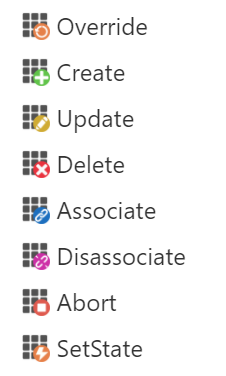
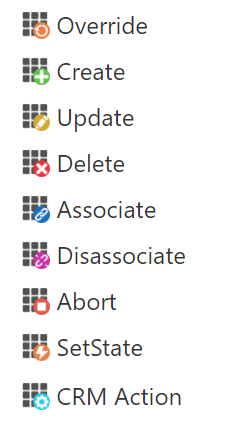
update docs

diff --git a/docs/index.html b/docs/index.html
@@ -217,6 +217,10 @@
                             <li>
                                 <a onclick="scrollToElem('#abort')">Abort Message</a>
                             </li>
+                            <li>
+                                <a onclick="scrollToElem('#crmaction')">CRM Action (Since version 2.0.0.2)</a>
+                            </li>
+    
                         </ul>
                     </li>
                     <li>
@@ -394,6 +398,8 @@
                         <span style="font-weight: bold">SetState :</span> The Plugin will change the state of a record </li>
                     <li>
                         <span style="font-weight: bold">Abort Message :</span> The Plugin will abort the current action by generating an error </li>
+                    <li>
+                        <span style="font-weight: bold">CRM Action :</span> The Plugin will execute a CRM Action </li>
                 </ul>
 
 
@@ -458,6 +464,8 @@
                         <span style="font-weight: bold">Disassociate :</span> The Plugin will disassociate 2 records </li>
                     <li>
                         <span style="font-weight: bold">SetState :</span> The Plugin will change the state of a record </li>
+                    <li>
+                        <span style="font-weight: bold">CRM Action :</span> The Plugin will execute a CRM Action </li>
                 </ul>
 
                 <hr>
@@ -644,6 +652,8 @@
                         <span style="font-weight: bold">SetState :</span> The Plugin will change the state of a record </li>
                     <li>
                         <span style="font-weight: bold">Abort Message :</span> The Plugin will abort the current action by generating an error </li>
+                    <li>
+                        <span style="font-weight: bold">CRM Action :</span> The Plugin will execute CRM Action</li>        
                 </ul>
 
                 <h2 id="override">Override Action
@@ -694,6 +704,11 @@
                         created by the current user
                     </li>
                 </ul>
+                <p>
+                    <span style="color: #c5000c; font-weight: bold">Since version 2.0.0.2</span> <br>
+                    Create Action automatically adds a return parameter (type : Guid) <br>
+                    If the creation concerns multiple lines, the corresponding parameter will have "Foreach" as aggregation function (like a request)
+                </p>
 
                 <h2 id="update">Update Action
                     <button onclick="scrollToElem('#container')" class="btn btn-transparent btn-sm btn-flat up" type="button">
@@ -868,6 +883,37 @@
 
 
 
+                <h2 id="crmaction">CRM Action
+                    <button onclick="scrollToElem('#container')" class="btn btn-transparent btn-sm btn-flat up" type="button">
+                        <img style="height: 26px; width: 26px" src="images/top.png">
+                    </button>
+
+                </h2>
+
+                <p>
+                    <span style="color: #c5000c; font-weight: bold">Since version 2.0.0.2</span> <br>
+                    CRM Action executes CRM Actions and adds a return parameter (if output defined) (type : Array) depending on defined output parameters <br>
+                </p>
+    
+
+                <p></p>
+                <p>
+                    <img src="images/crmaction.png" class="img" alt="" style="width: 700px;">
+                </p>
+
+                <ul>
+                    <li>
+                        <span style="font-weight: bold">Entity :</span> Entity associated action, "none" if global </li>
+                    <li>
+                        <span style="font-weight: bold">Action :</span> CRM Action to execute </li>
+                    <li>
+                        <span style="font-weight: bold">Attributes with Expression editor enabled:</span> Action input parameters </li>
+                    <li>
+                        <span style="font-weight: bold">Attributes without Expression editor:</span> Action output parameters </li>
+                </ul>
+    
+
+
                 <hr>
                 <h1 id="expressioneditor">Expression Editor
                     <button onclick="scrollToElem('#container')" class="btn btn-transparent btn-sm btn-flat up" type="button">
@@ -970,24 +1016,24 @@
                     <pre><code class="json">[  
     {  
         "ake_synchronous":true,
-        "ake_period":null,
-        "ake_order":3,
+        "ake_order":1,
+        "ake_entity":"account",
         "ake_postcreate":true,
         "ake_active":true,
-        "ake_actions":"[{\"asadmin\":false,\"resume\":\"Create of contact (Single record)\",\"resumeDefault\":\"Create of contact (Single record)\",\"entity\":\"contact\",\"attributes\":[{\"id\":\"a67701f5-ebd0-4412-8b70-c61a99595647\",\"logicalname\":\"firstname\",\"attributetype\":\"String\",\"name\":\"First Name\",\"validforcreate\":true,\"validforupdate\":true,\"type\":1,\"expression\":\"\\\" Contact associated\\\"\",\"$$hashKey\":\"360\"},{\"id\":\"2f8fdd79-0372-490d-9053-b743becfca0d\",\"logicalname\":\"lastname\",\"attributetype\":\"String\",\"name\":\"Last Name\",\"validforcreate\":true,\"validforupdate\":true,\"type\":1,\"expression\":\"#p1\",\"$$hashKey\":\"36A\"},{\"id\":\"c7a58b13-df19-491c-a918-1bc26eaf6eb3\",\"logicalname\":\"parentcustomerid\",\"attributetype\":\"Customer\",\"targets\":\"account;contact\",\"name\":\"Company Name\",\"validforcreate\":true,\"validforupdate\":true,\"type\":5,\"expression\":\"#Id\",\"$$hashKey\":\"36N\"}],\"relations\":[],\"type\":0,\"depth\":1,\"condition\":\"true\",\"foreachparam\":0,\"order\":1}]",
-        "ake_startdate":null,
+        "ake_actions":"[{\"asadmin\":false,\"resume\":\"Create of contact (Single record)\",\"resumeDefault\":\"Create of contact (Single record)\",\"entity\":\"contact\",\"attributes\":[{\"id\":\"a67701f5-ebd0-4412-8b70-c61a99595647\",\"logicalname\":\"firstname\",\"attributetype\":\"String\",\"name\":\"Prénom\",\"validforcreate\":true,\"validforupdate\":true,\"type\":1,\"expression\":\"\\\"contact associated\\\"\",\"$$hashKey\":\"3QN\"},{\"id\":\"2f8fdd79-0372-490d-9053-b743becfca0d\",\"logicalname\":\"lastname\",\"attributetype\":\"String\",\"name\":\"Nom de famille\",\"validforcreate\":true,\"validforupdate\":true,\"type\":1,\"expression\":\"#p1\",\"$$hashKey\":\"3QX\"},{\"id\":\"c7a58b13-df19-491c-a918-1bc26eaf6eb3\",\"logicalname\":\"parentcustomerid\",\"attributetype\":\"Customer\",\"targets\":\"account;contact\",\"name\":\"Nom de la société\",\"validforcreate\":true,\"validforupdate\":true,\"type\":5,\"expression\":\"#Id\",\"$$hashKey\":\"3RA\"}],\"relations\":[],\"type\":0,\"depth\":1,\"condition\":\"true\",\"foreachparam\":0,\"order\":1,\"returnparam\":2}]",
         "ake_precreate":false,
-        "ake_rules":"[{\"asadmin\":false,\"entity\":\"account\",\"attributestate\":1,\"type\":1,\"returntype\":1,\"locked\":true,\"logicalname\":\"name\",\"resumeDefault\":\"Attribute (name - After)\",\"resume\":\"Attribute (name - After)\",\"paramnumber\":1,\"code\":\"#p1\"}]",
+        "ake_rules":"[{\"asadmin\":false,\"entity\":\"account\",\"attributestate\":1,\"type\":1,\"returntype\":1,\"locked\":true,\"logicalname\":\"name\",\"resumeDefault\":\"Attribute (name - After)\",\"resume\":\"Attribute (name - After)\",\"paramnumber\":1,\"code\":\"#p1\"},{\"asadmin\":false,\"resume\":\"Id(s) of Create of contact (Single record)\",\"paramnumber\":2,\"code\":\"#p2\",\"type\":6,\"returntype\":4,\"locked\":true,\"linefunction\":0}]",
         "ake_preupdate":false,
         "ake_predelete":false,
         "ake_postdelete":false,
         "ake_isperiodic":false,
+        "ake_triggertype":0,
         "ake_name":"Sample 1",
         "ake_postupdate":false,
-        "ake_triggertype":0,
         "ake_periodunit":null,
         "ake_processid":null,
-        "ake_entity":"account",
+        "ake_period":null,
+        "ake_startdate":null,
         "selected":true
     }
 ]</code></pre>
